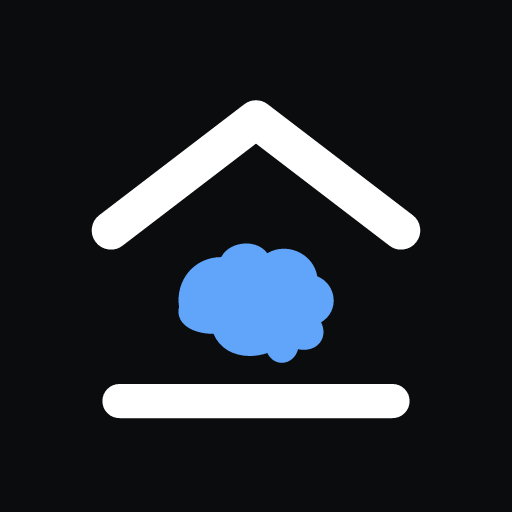
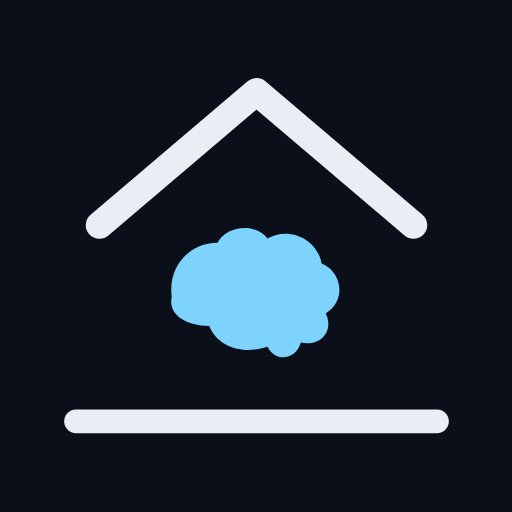
The mark goes to sky, and the two X images get drawn
THE BRAIN IS #7dd3fc, not #60a5fa. That is --stg-brand on the dark register,
which is what the mark already wears on every dark page, so the tab icon now
matches the site instead of sitting half a step behind it. The old blue muddied
at 16px against a dark tab bar; measured on the .ico's four sizes side by side,
this one holds. The tile ground moves with it, #0b0c0e -> #0b0f1a, the site's
own dark ground.

app/icon.png, app/apple-icon.png and app/favicon.ico (16/32/48/64) are redrawn.
Nothing about the mark's geometry changed.

TWO NEW IMAGES FOR X, in public/brand/. The banner is the category ramp: the
mark, the tagline and one line of substance on the left, the ten category steps
rising on the right, which is the figure StageWelcome opens the site with and
the one image only this site could run. Its bottom left is empty on purpose,
because X overlays the profile photo there. The avatar is the same mark as the
favicon, padded further in (0.86 of the tile against 0.92): X crops a profile
photo to a circle, and the floor line is the widest thing in the mark while
sitting 85% of the way down, where the circle has already narrowed to about 71%
of its diameter, so a mark sized for a square tile has its ends cut off.

scripts/build-brand.mjs is what draws all of them, from the real MindLoftMark
geometry through headless Chromium, with the fonts read out of node_modules so
it needs no network. Same reason bake-og.mjs was written last night: five baked
[…]

Changed region(s): [[0.1562, 0.1562, 0.8438, 0.5], [0.125, 0.75, 0.875, 0.875], [0.3125, 0.4375, 0.6875, 0.7188]]

diff --git a/public/brand/README.md b/public/brand/README.md
@@ -1,0 +1,45 @@
+# Brand assets
+
+The mark itself lives in `app/MindLoftMark.jsx` and is drawn, never pasted. These
+are the places that need a baked PNG instead.
+
+| File | Where it goes |
+|---|---|
+| `../../app/icon.png` (512) | the browser tab on every page, via `metadata.icons.icon` |
+| `../../app/apple-icon.png` (180) | iOS home screen for the site itself |
+| `../../app/favicon.ico` (16/32/48/64) | the legacy fallback |
+| `x-banner.png` (1500x500) | the X profile header |
+| `x-avatar.png` (400x400) | the X profile photo |
+
+## Rules
+
+**The brain is `#7dd3fc`**, which is `--stg-brand` on the dark register: what
+the mark actually wears on every dark page. It was `#60a5fa`, half a step
+darker, which muddied at 16px on a dark tab bar.
+
+**The tile ground is `#0b0f1a`**, the site's own dark ground, not the near-black
+`#0b0c0e` these used to carry.
+
+**The avatar is padded further in than the favicon** (0.86 of the tile against
+0.92). X crops a profile photo to a circle, and the floor line is the widest
+thing in the mark while sitting 85% of the way down, where the circle has
+already narrowed. At 0.92 it clips.
+
+**The banner's bottom-left is deliberately empty.** X overlays the profile photo
+there, covering roughly the left quarter of the bottom third.
+
+## Regenerating
+
+```
+npm i --no-save playwright && npx playwright install chromium
+node scripts/build-brand.mjs
+python3 -c "from PIL import Image; Image.open('app/icon.png').save('app/favicon.ico', sizes=[(16,16),(32,32),(48,48),(64,64)])"
+```
+
+It renders the real `MindLoftMark` geometry through headless Chromium, with
+Manrope and DM Mono read out of `node_modules`, so it needs no network. Run it
+after any change to the mark or to `--stg-brand`, and commit what it writes.
+
+Playwright is deliberately not a dependency: Vercel installs devDependencies
+during a build, and a headless browser is a few hundred megabytes to carry for a
+script that runs twice a year.
